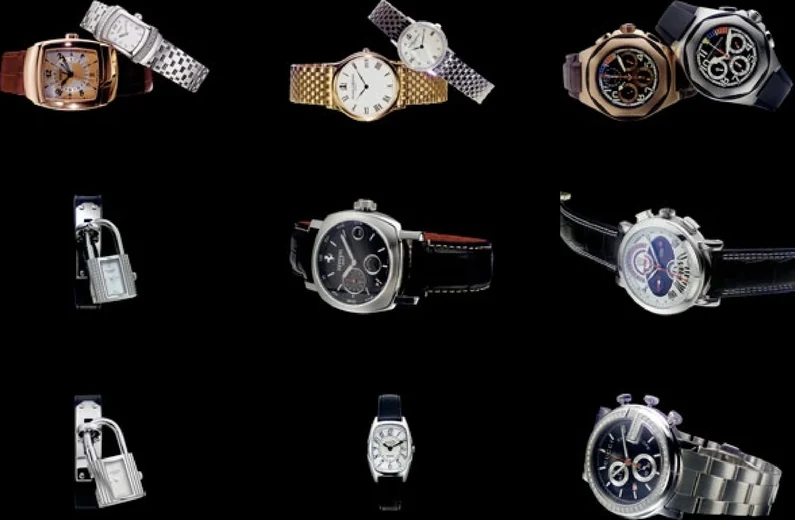
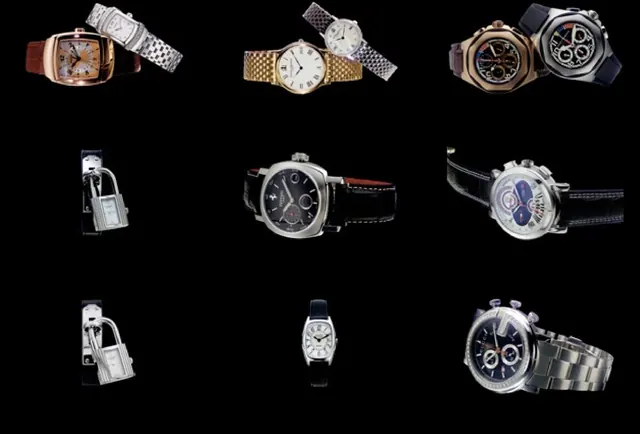
Unify static page accents and fix retouching comparison 10

diff --git a/projects/before-after-retouching/index.html b/projects/before-after-retouching/index.html
@@ -6,11 +6,11 @@
   <title>Before/After Retouching | Antonio Colomba</title>
   <style>
     :root {
-      --paper: #707070;
+      --paper: #767676;
       --ink: #202833;
       --muted: #202833;
-      --blue: #174e8f;
-      --teal: #0f766e;
+      --blue: #202833;
+      --teal: #202833;
       --rule: rgba(32, 40, 51, 0.34);
       --night: #090b0d;
       --soft: #edf3f6;
@@ -394,7 +394,7 @@
 
     const items = Array.from({ length: 10 }, (_, index) => {
       const number = String(index + 1).padStart(2, "0");
-      return {
+      const item = {
         number,
         before: `images/image-${number}-before.webp`,
         after: `images/image-${number}-after.webp`,
@@ -406,11 +406,14 @@
           poster: `images/image-${number}-after-thumb.webp`,
           width: aiVideos[number].width,
           height: aiVideos[number].height
-        } : number === "10" ? {
-          type: "image",
-          src: `upscaled/image-${number}-after-higgsfield-4k.webp`
         } : null
       };
+      if (number === "10") {
+        item.after = `upscaled/image-${number}-after-higgsfield-4k.webp`;
+        item.afterThumb = item.after;
+        item.ai = null;
+      }
+      return item;
     });
 
     const gallery = document.querySelector(".gallery");
@@ -474,7 +477,7 @@
             </figure>
             <div class="view-controls" aria-label="Choose state for image ${item.number}">
               <button class="view-control before-after-toggle is-active" type="button" aria-label="Show after image ${item.number}">After</button>
-              <button class="view-control ai-toggle" type="button" aria-pressed="false">AI modified</button>
+              ${item.ai ? '<button class="view-control ai-toggle" type="button" aria-pressed="false">AI modified</button>' : ""}
             </div>
           </div>
         </article>
@@ -490,9 +493,12 @@
           const nextState = visibleBeforeAfterState === "before" ? "after" : "before";
           updateComparisonView(view, index, nextState);
         });
-        view.querySelector(".ai-toggle").addEventListener("click", () => {
-          updateComparisonView(view, index, "ai");
-        });
+        const aiToggle = view.querySelector(".ai-toggle");
+        if (aiToggle) {
+          aiToggle.addEventListener("click", () => {
+            updateComparisonView(view, index, "ai");
+          });
+        }
         bindDisplayButton(view);
       });
     }
@@ -524,7 +530,9 @@
       beforeAfterButton.textContent = nextBeforeAfterState === "before" ? "Before" : "After";
       beforeAfterButton.setAttribute("aria-label", `Show ${nextBeforeAfterState} image ${item.number}`);
       beforeAfterButton.classList.toggle("is-active", state !== "ai");
-      aiButton.setAttribute("aria-pressed", String(state === "ai"));
+      if (aiButton) {
+        aiButton.setAttribute("aria-pressed", String(state === "ai"));
+      }
 
       if (state === "ai") {
         slot.innerHTML = aiMediaMarkup(item);
@@ -560,6 +568,7 @@
       lightboxBeforeAfterToggle.setAttribute("aria-label", `Show ${nextBeforeAfterState} image ${item.number}`);
       lightboxBeforeAfterToggle.classList.toggle("is-active", currentState !== "ai");
       lightboxAiToggle.disabled = !item.ai;
+      lightboxAiToggle.hidden = !item.ai;
       lightboxAiToggle.setAttribute("aria-pressed", String(currentState === "ai"));
     }
 

diff --git a/antonio-resume.html b/antonio-resume.html
@@ -6,11 +6,11 @@
   <title>Antonio Colomba | Operations Support Resume</title>
   <style>
     :root {
-      --paper: #707070;
+      --paper: #767676;
       --ink: #202833;
       --muted: #202833;
-      --blue: #174e8f;
-      --teal: #0f766e;
+      --blue: #202833;
+      --teal: #202833;
       --rule: rgba(32, 40, 51, 0.34);
     }
 
@@ -103,8 +103,8 @@
       margin-top: 14px;
       padding: 5px 11px;
       border: 1px solid var(--blue);
-      background: var(--blue);
-      color: #f4f1ea;
+      background: transparent;
+      color: var(--ink);
       font-size: 12px;
       font-weight: 700;
       line-height: 1.1;

diff --git a/operations-support-resume.html b/operations-support-resume.html
@@ -6,11 +6,11 @@
   <title>Antonio Colomba | Operations Support Resume</title>
   <style>
     :root {
-      --paper: #707070;
+      --paper: #767676;
       --ink: #202833;
       --muted: #202833;
-      --blue: #174e8f;
-      --teal: #0f766e;
+      --blue: #202833;
+      --teal: #202833;
       --rule: rgba(32, 40, 51, 0.34);
     }
 
@@ -103,8 +103,8 @@
       margin-top: 14px;
       padding: 5px 11px;
       border: 1px solid var(--blue);
-      background: var(--blue);
-      color: #f4f1ea;
+      background: transparent;
+      color: var(--ink);
       font-size: 12px;
       font-weight: 700;
       line-height: 1.1;

diff --git a/message.html b/message.html
@@ -6,10 +6,10 @@
   <title>Antonio Colomba | Message</title>
   <style>
     :root {
-      --paper: #707070;
+      --paper: #767676;
       --ink: #202833;
       --muted: #202833;
-      --blue: #174e8f;
+      --blue: #202833;
       --rule: rgba(32, 40, 51, 0.34);
     }
 
@@ -157,8 +157,8 @@
     .message-form button {
       justify-self: start;
       border: 1px solid var(--blue);
-      background: var(--blue);
-      color: #f4f1ea;
+      background: transparent;
+      color: var(--ink);
       cursor: pointer;
       font: inherit;
       font-size: 15px;

diff --git a/antonio-bio.html b/antonio-bio.html
@@ -6,11 +6,11 @@
   <title>Antonio Colomba | Bio</title>
   <style>
     :root {
-      --paper: #707070;
+      --paper: #767676;
       --ink: #202833;
       --muted: #202833;
-      --blue: #174e8f;
-      --teal: #0f766e;
+      --blue: #202833;
+      --teal: #202833;
       --rule: rgba(32, 40, 51, 0.34);
     }
 

diff --git a/antonio-colomba-bio.html b/antonio-colomba-bio.html
@@ -6,11 +6,11 @@
   <title>Antonio Colomba</title>
   <style>
     :root {
-      --paper: #707070;
+      --paper: #767676;
       --ink: #202833;
       --muted: #202833;
-      --blue: #174e8f;
-      --teal: #0f766e;
+      --blue: #202833;
+      --teal: #202833;
       --rule: rgba(32, 40, 51, 0.34);
     }
 

diff --git a/index.html b/index.html
@@ -6,11 +6,11 @@
   <title>Antonio Colomba</title>
   <style>
     :root {
-      --paper: #707070;
+      --paper: #767676;
       --ink: #202833;
       --muted: #202833;
-      --blue: #174e8f;
-      --teal: #0f766e;
+      --blue: #202833;
+      --teal: #202833;
       --rule: rgba(32, 40, 51, 0.34);
     }
 

diff --git a/projects.html b/projects.html
@@ -6,11 +6,11 @@
   <title>Antonio Colomba | Projects</title>
   <style>
     :root {
-      --paper: #707070;
+      --paper: #767676;
       --ink: #202833;
       --muted: #202833;
-      --blue: #174e8f;
-      --teal: #0f766e;
+      --blue: #202833;
+      --teal: #202833;
       --rule: rgba(32, 40, 51, 0.34);
     }
 

diff --git a/docs/TODO.md b/docs/TODO.md
@@ -81,6 +81,9 @@ Last updated: 2026-07-02
 - 2026-07-02 [Done] Restored borderless full-image fitting for retouching gallery media so AI previews do not crop edges or add visible letterboxing.
 - 2026-07-02 [Done] Removed the visible numbering above each retouching gallery image.
 - 2026-07-02 [Done] Vertically centered shorter retouching gallery cards within each grid row.
+- 2026-07-02 [Done] Restored comparison 10 to original low-res before, 4K upscale after, with no AI modified state.
+- 2026-07-02 [Done] Changed retouching gallery page accents to charcoal text.
+- 2026-07-02 [Done] Applied site-wide 18% gray background and charcoal text/accent color to static pages.
 - 2026-07-02 [Done] Generated Higgsfield AI video states for retouching comparisons 02-09, including stronger realistic lume/timelapse reruns for watch images 08-09.
 - 2026-06-30 [Next] Research SUNY school/program options Antonio could enter for Summer 2026 if still feasible or Fall 2026, including loan/aid implications and realistic application timing.
 - Enable HTTPS enforcement in GitHub Pages after GitHub finishes issuing the certificate for `acolomba.site`.